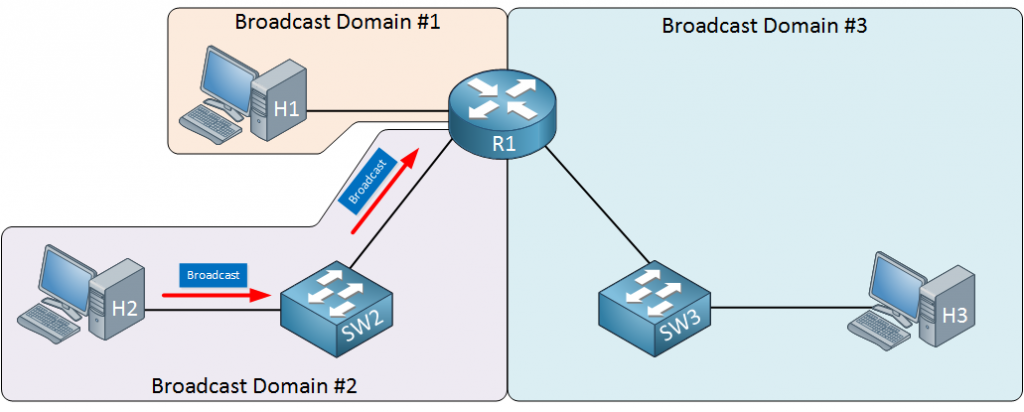
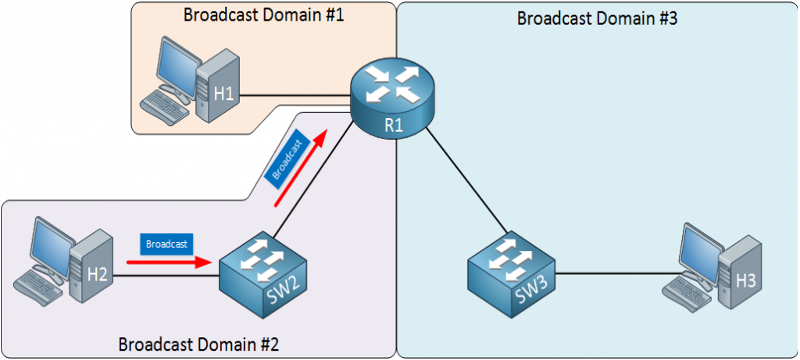
Redimensionamento das figuras, inserção dos prints das telas, inserção da prática sobre VLANs

diff --git a/tarefa.html b/tarefa.html
@@ -9,9 +9,6 @@
 <div id="header_wrapper">
   <div id="header">
     <div id="site_title">
-      <!--h1><a href="#"> <img src="images/logo-ic.png" alt="" /> <span>free css templates</span> </a></h1-->
-    </div>
-    <!--<p>Lorem ipsum dolor sit amet, consectetur adipiscing elit. Nulla aliquet, ipsum bibendum pretium volutpat, diam magna facilisis ante.</p>-->
   </div>
   <!-- end of header -->
 </div>
@@ -36,23 +33,42 @@
 	      <ul>
 		<li><a href="https://www.wireshark.org/#download">Wireshark</a> - ferramenta de análise de protocolos de rede.</li>
           	<li><a href="https://iperf.fr/iperf-download.php">Iperf</a> - ferramenta para geração de tráfego e medição de performance da rede.</li>
-	      </ul>
-	      <div class="cleaner_h20"></div>
-	     <div class="cleaner"></div>
+          </ul>
 	    </div>
 	   <div class="content_box_bottom"></div>
-	   
+
+    <!--Topico 1 -->
+    <div class="content_box">
+      <h2>Topologia da rede</h2>
+	<p> Construa a topologia da rede, conectando os hosts de acordo com a figura abaixo.
+	 <div class="cleaner_h20"></div>
+      <div class="image_fl"> <img src="images/collision-domain.png" alt="" /> </div>
+      <div class="cleaner"></div>
+    </div>
+    <div class="content_box_bottom"></div>
     <!--Topico 2-->
     <div class="content_box">
       <h2>Atividades</h2>
       <h3> Domínio de Colisão </h3>
+      <div class="cleaner_h20"></div>
       <p> 1. Análise de quadros Ethernet
       <div class="cleaner_h20"></div>
       <p>Passo 1: Inicie o Wireshark em um dos computadores para capturar os pacotes transmitidos na rede através da interface Ethernet. </p>
-      <p>Passo 2: Em um segundo computador também conectado ao hub descubra o endereço IP configurado na interface Ethernet através do comando ifconfig (Linux) ou ipconfig (Windows).
-	  <p> Passo 3: Em um terceiro computador execute o comando ping com o endereço IP obtido no passo anterior.
+      <div class="cleaner_h20"></div>
+      <p>Passo 2: Em um segundo computador também conectado ao hub descubra o endereço IP configurado na interface Ethernet através do comando ifconfig (Linux) ou ipconfig (Windows):</p> 
+          No Linux:<div class="cleaner"></div>
+          <div class="image_fl"> <img src="images/ifconfig.png" alt="" /> </div>
+          <div class="cleaner"></div>
+          No Windows:<div class="cleaner"></div>
+          <div class="image_fl"> <img src="images/ipconfig.png" alt="" /> </div>
+          <div class="cleaner"></div> <div class="cleaner_h20"></div>
+        <p> Passo 3: Em um terceiro computador execute o comando ping com o endereço IP obtido no passo anterior.
+          
+            <p class="list_02" align="center">ping "IP_destino"</p>
+            <div class="cleaner_h20"></div>
 	  <p> Passo 4: Através do Wireshark que está sendo executado no primeiro passo, filtre os pacotes ICMP com o endereço IP de destino obtido no segundo passo.
 	  <div class="image_fl"> <img src="images/wireshark-hub.png" alt="" /> </div>
+    <div class="cleaner_h20"></div>
 	<p class="list_01"> Responda:
 	<ul class="list_01">
 		<li> O endereço IP da máquina na qual o Wireshark é executado é o mesmo endereço IP utilizado na filtragem? </li>	
@@ -62,34 +78,100 @@
 	<div class="cleaner_h20"></div>
       <p> 2. Análise de Desempenho
       <div class="cleaner_h20"></div>
-      <p> Passo 1: Escolham duas máquinas para gerar tráfego e três máquinas para receberem tráfego.
-      <p> Passo 2: Nas máquinas escolhidas para receberem tráfego, execute o software para geração de tráfego Iperf em modo servidor com o seguinte comando iperf -s -V -u -f M. Esse comando nos indica que o software vai executar em modo servidor (-s), que vai receber tráfego UDP (-u) e que a vazão vai ser indicada em MB/s (-f M).
+      <p> Passo 1: Escolha duas máquinas para gerar tráfego e três máquinas para receberem tráfego.
+      <div class="cleaner_h20"></div>
+      <p> Passo 2: Nas máquinas escolhidas para receberem tráfego, abra um terminal e execute o Iperf para geração de tráfego Iperf em modo servidor com o seguinte comando:
+        <p class="list_02" align="center">iperf -s -V -f M</p><div class="cleaner"></div>
+      <p> Esse comando nos indica que o software vai executar em modo servidor (-s), que vai receber tráfego UDP (-u) e que a vazão vai ser indicada em MB/s (-f M). 
+          <div class="image_fl"> <img src="images/iperf1.png" alt="" /> </div>
+          <div class="cleaner_h20"></div>
       <p> Passo 3: Descubra o endereço IP das máquinas nas quais o Iperf é executado em modo servidor.
-      <p> Passo 4: Nas máquinas escolhidas para gerar o tráfego, execute o Iperf em modo cliente com o seguinte comando iperf -c xxx.xxx.xxx.xxx -u -b 80M -t 20. Esse comando nos indica para gerar tráfego UDP (-u), com uma taxa de transmissão de 80 Mb/s (ou 10MB/s) (-b 80M), por um período de 20 segundos (-t 20) e para um dos três servidores (-c xxx.xxx.xxx.xxx). OBS: Dois ou mais clientes não podem escolher um mesmo servidor em comum. MOSTRAR FIGURA DO COMANDO EM LINUX E WINDOWS
+          <div class="cleaner_h20"></div>
+      <p> Passo 4: Nas máquinas escolhidas para gerar o tráfego, abra um terminal e execute o Iperf em modo cliente com o seguinte comando:
+        <p class="list_02" align="center"> iperf -c xxx.xxx.xxx.xxx -u -b 80M -t 20 </p>
+        <p>Esse comando nos indica para gerar tráfego UDP (-u), com uma taxa de transmissão de 80 Mb/s (ou 10MB/s) (-b 80M), por um período de 20 segundos (-t 20) e para um dos três servidores (-c xxx.xxx.xxx.xxx). OBS: Dois ou mais clientes não podem escolher um mesmo servidor em comum.  </p>
+         <div class="image_fl"> <img src="images/iperf2.png" alt="" /> </div>
+    <div class="cleaner_h20"></div>
       <p class="list_01"> Responda:
 	<ul class="list_01">
 		<li> Qual foi a vazão registrada pelos servidores ao final do experimento? </li>	
 		<li> Compare a vazão registrada com a taxa de transmissão utilizada pelos cliente. A vazão chegou próxima da taxa de transmissão? Por qual razão? </li>
 	</ul>
+      <div class="cleaner_h20"></div>
+      <div class="cleaner_h20"></div>
 	  <h3> Domínio de Broadcast </h3>
+        <div class="cleaner_h20"></div>
 	  <p> 1. Análise de quadros Ethernet
       <div class="cleaner_h20"></div>
       <p>Passo 1: Inicie o Wireshark em um dos computadores para capturar os pacotes transmitidos na rede através da interface Ethernet. </p>
-      <p>Passo 2: Em um segundo computador também conectado ao switch descubra o endereço IP configurado na interface Ethernet através do comando ifconfig (Linux) ou ipconfig (Windows): MOSTRAR FIGURAS COM OS ENDEREÇOS IP DE CADA SO
-	  <p> Passo 3: Em um terceiro computador execute o comando arp -n, verifique se há uma entrada com o endereço IP obtido no passo anterior e apague essa entrada com o comando sudo arp -d xxx.xxx.xxx.xxx.
-  	  <p> Passo 4: Em um terceiro computador execute o comando ping com o endereço IP obtido no segundo passo.
+       <div class="cleaner_h20"></div>
+      <p>Passo 2: Em um segundo computador também conectado ao switch descubra o endereço IP configurado na interface Ethernet através do comando ifconfig (Linux) ou ipconfig (Windows): 
+          <div class="cleaner"></div>
+        No Linux:<div class="cleaner"></div>
+          <div class="image_fl"> <img src="images/ifconfig.png" alt="" /> </div>
+          <div class="cleaner"></div>
+          No Windows:<div class="cleaner"></div>
+          <div class="image_fl"> <img src="images/ipconfig.png" alt="" /> </div>
+          <div class="cleaner"></div> <div class="cleaner_h20"></div>
+	  <p> Passo 3: Em um terceiro computador execute o comando:
+          <p class="list_02" align="center"> No Linux: arp -n </p>
+          <p class="list_02" align="center"> No Windows: arp -a </p>
+        <p> Verifique se há uma entrada com o endereço IP obtido no passo anterior e apague essa entrada com o comando:
+           <p class="list_02" align="center"> arp -d xxx.xxx.xxx.xxx. </p>
+        <p>Obs: É necessário ser superusuário para executar este comando</p>
+  	  <div class="cleaner_h20"></div>
+      <p> Passo 4: Em um terceiro computador execute o comando ping com o endereço IP obtido no segundo passo.
+      <div class="cleaner_h20"></div>
 	  <p> Passo 5: Através do Wireshark que está sendo executado na máquina do primeiro passo, filtre os pacotes ICMP com o endereço IP de destino obtido no segundo passo.
 	  <div class="image_fl"> <img src="images/wireshark-hub.png" alt="" /> </div>
+    <div class="cleaner_h20"></div>
 	  <p> Passo 6: Através do Wireshark que está sendo executado na máquina do primeiro passo, filtre os pacotes ARP com o endereço IP de destino obtido no segundo passo.
   	  <div class="image_fl"> <img src="images/wireshark-switch.png" alt="" /> </div>
+        <div class="cleaner_h20"></div>
 	<p class="list_01"> Responda:
 	<ul class="list_01">
 		<li> Os pacotes ICMP do ping transmitido pela máquina no passo 4 foram exibidos pelo Wireshark? E os pacotes ARP? Explique a razão do resultado deste experimento. DICA: Verifique o endereço MAC de destino dos quadros Ethernet. </li>
      <div class="cleaner"></div>
     </div>
-   <div class="content_box_bottom"></div>
-          <div class="cleaner"></div>
     </div>
+  <div class="cleaner_h20"></div>
+    <h3> VLAN</h3>
+    <div class="cleaner_h20"></div>
+  <p> 1. Configuração de VLANs
+      <div class="cleaner_h20"></div>
+      <p> Para a criação de VLANs será utilizada a interface gráfica fornecida pelo fabricante do switch. Nesta prática, o switch utilizado foi o TP-Link TL-SG108E V2.0 (<a href="http://www.tp-link.com.br/download/TL-SG108E_V2.html">Download</a>)</p>
+      <p> Passo 1: Ao iniciar o software do fabricante, irá aparecer uma lista de switches. Selecione o switch com o endereço MAC impresso no equipamento. E clique no ícone de configuração, conforme indicado na figura abaixo.</p>
+      <div class="image_fl"> <img src="images/switch3.png" alt="" /> </div>
+       <div class="cleaner_h20"></div>
+      <p> Passo 2: Na tela de configuração, sete o campo DHCP Setting como "Enable". Preecha os campos User Name e Password com "admin", e clique em Apply. </p> 
+      <div class="image_fl"> <img src="images/switch4.png" alt="" /> </div>
+       <div class="cleaner_h20"></div>
+      <p> Passo 3: Selecione o ícone de login correspondente ao switch que será configurado para criação das VLANs, e faça o login com usuário "admin" e senha "admin" </p>
+      <div class="image_fl"> <img src="images/switch1.png" alt="" /> </div>
+       <div class="cleaner_h20"></div>
+      <p> Passo 4: Para a criação das VLANs selecione a aba VLAN na tela que irá aparecer</p>
+      <div class="image_fl"> <img src="images/switch5.png" alt="" /> </div>
+       <div class="cleaner_h20"></div>
+      <p> Passo 5: Nesta prática, cada VLAN será caracterizada por um conjunto de portas do switch. Então, no menu lateral esquerdo, selecione a opção Port Based VLAN.</p> 
+      <div class="image_fl"> <img src="images/switch6.png" alt="" /> </div>
+       <div class="cleaner_h20"></div>
+      <p> Passo 6: Crie 2 VLANs: VLAN 2 (composta por apenas um host), e VLAN 3 (composta pelos hosts restantes) </p>
+      <p> Para criar a VLAN, basta clicar nos números das portas que irão participar da VLAN, e depois clicar em Apply. 
+      <p>    Por exemplo: VLAN 2, contendo apenas a porta 4.</p> 
+      <div class="image_fl"> <img src="images/switch7.png" alt="" /> </div>
+      <p> VLAN 3, contendo as portas 5 e 8. </p>
+      <div class="image_fl"> <img src="images/switch8.png" alt="" /> </div>
+     <div class="cleaner_h20"></div>
+      <p> Passo 7: Na máquina pertencente à VLAN 2, execute o comando ping, com o endereço ip de uma das máquinas pertencentes à VLAN 3.</p>
+       <p class="list_02" align="center"> ping xxx.xxx.xxx.xxx </p>
+       <div class="cleaner_h20"></div>
+      <p> Passo 8: Em uma das máquinas pertencentes à VLAN 3, execute o comando ping, com o endereço ip da outra máquinas que também está na VLAN 3.</p>
+      <p class="list_02" align="center"> ping xxx.xxx.xxx.xxx </p>
+      <p class="list_01"> Responda:
+	   <ul class="list_01">
+		  <li> Dentre os pacotes ICMP do ping transmitidos pela máquina no passo 7, algum foi recebido pelo destino? E no passo 8? </li>
+          <li> O que podemos observar com este experimento? </li>
+       <div class="cleaner"></div>      
   </div>
   <!-- end of content -->
   <div class="cleaner"></div>

diff --git a/index.html b/index.html
@@ -9,9 +9,7 @@
 <div id="header_wrapper">
   <div id="header">
     <div id="site_title">
-      <!--h1><a href="#"> <img src="images/logo-ic.png" alt="" /> <span>free css templates</span> </a></h1-->
     </div>
-    <!--<p>Lorem ipsum dolor sit amet, consectetur adipiscing elit. Nulla aliquet, ipsum bibendum pretium volutpat, diam magna facilisis ante.</p>-->
   </div>
   <!-- end of header -->
 </div>
@@ -27,32 +25,6 @@
   <!-- end of menu -->
 </div>
 <div id="content_wrapper">
-  <!--div id="sidebar">
-    <div class="sidebar_box">
-      <h2>Announcements</h2>
-      <div class="news_box"> <a href="#">Fusce sit amet nunc lectus, at pretium augue. Pellentesque tortor felis.</a>
-        <p class="post_info">Posted by <a href="#">Admin</a> on <span>April 30, 2048</span></p>
-      </div>
-      <div class="news_box"> <a href="#">Integer imperdiet, justo ut venenatis vehicula, magna mi placerat felis.</a>
-        <p class="post_info">Posted by <a href="#">Admin</a> on <span>April 22, 2048</span></p>
-      </div>
-      <div class="news_box"> <a href="#">Sed justo dolor, convallis at, vestibulum vitae, elementum eu, pede.</a>
-        <p class="post_info">Posted by <a href="#">Admin</a> on <span>April 14, 2048</span></p>
-      </div>
-    </div>
-    <div class="sidebar_box_bottom"></div>
-    <div class="sidebar_box">
-      <h2>Newsletter</h2>
-      <form action="#" method="get">
-        <label>Please enter your email address to subscribe our newsletter.</label>
-        <input type="text" value="" name="username" size="10" id="input_field" />
-        <input type="submit" name="login" value="Subscribe" alt="login" id="submit_btn" />
-      </form>
-      <div class="cleaner"></div>
-    </div>
-    <div class="sidebar_box_bottom"></div>
-  </div>
-   end of sidebar -->
   <div id="content">
     <div class="content_box">
       <h2>Apresentação</h2>
@@ -137,8 +109,14 @@
       <div class="content_box">
       <h2>Rede Local Virtual</h2>
       <div class="cleaner_h20"></div>
-      <p> Uma Rede Local Virtual (Virtual Local Network - VLAN) é uma topologia de rede organizada de maneira lógica e configurada sobre a topologia física. A VLAN é uma tecnologia desenvolvida para switches para segmentar a rede física e controlar a difusão de quadros broadcast. Ao criar uma VLAN em uma LAN física divide-se a LAN em múltiplas LANs lógicas, cada um com o seu domínio de broadcast próprio. As estações pertencentes a mesma VLAN conseguem comunicar entre si, entretanto estações de VLANs distintas não conseguem falar uma com a outra. Para que estações pertencentes a VLANs diferente possam se comunicar, deve existir um elemento que realize a conexão entre domínios broadcasts diferentes, como um roteador.
-	   <div class="image_fl"> <img src="images/vlan.png" alt="" /> </div>
+      <ul>
+        <li>Uma VLAN (Virtual Local Area Network - Rede Local Virtual) é uma rede local que reúne um conjunto de máquinas de maneira lógica</li>
+        <li>Define um domínio broadcast para pacotes do nível de rede </li>
+        <li>Definição de LANs separadas através da especificação de um subconjunto de portas em um switch ou portas em vários switches </li>
+        <li>O switch funciona como se fossem switches separados </li>
+        <li>Para interligar diferentes VLANs é necessário um elemento a mais, o roteador. </li>
+        <li>O roteador também pode estar implementado no próprio switch (não ocupa uma porta em cada VLAN que interliga)</li>
+      </ul>
        <div class="cleaner_h20"></div>
        <div class="cleaner"></div>
     </div>
@@ -148,7 +126,7 @@
       <h2>Protocolo ARP</h2>
       <div class="cleaner_h20"></div>
      <p>O protocolo ARP (Address Resolution Protocol) é responsável pela conversão de um endereço IP em um endereço MAC. </p>
-      <p>Assim, para fazer a correspondência entre os endereços físicos e os endereços lógicos, o protocolo ARP interroga as máquinas da rede para conhecer o seu 			 endereço físico e depois cria uma tabela de correspondência entre os endereços IP e os endereços MAC numa memória temporária. O processo de interrogar as 			 máquinas é feito através de dois pacotes, o ARP request e o ARP reply. O pacote ARP request carrega uma pergunta do tipo who is (quem é) o endereço IP 		 X.X.X.X, informe (tell) para o endereço Y.Y.Y.Y. Essa pergunta é encapsulada em um quadro com endereço de broadcast, portanto, todas as estações 			  pertencentes ao mesmo domínio de broadcast receberão uma cópia. A estação cuja interface possui o endereço IP X.X.X.X responderá o seu endereço MAC para a estação de endereço IP Y.Y.Y.Y em um pacote ARP reply.
+      <p>Assim, para fazer a correspondência entre os endereços físicos e os endereços lógicos, o protocolo ARP interroga as máquinas da rede para conhecer o seu endereço físico e depois cria uma tabela de correspondência entre os endereços lógicos e os endereços físicos numa memória secreta. 
        <div class="cleaner_h20"></div>
        <div class="cleaner"></div>
     </div>

diff --git a/style.css b/style.css
@@ -314,6 +314,13 @@ h3 {
 	margin: 0 0 0 20px;
 }
 
+.list_02 {
+	margin: 0 0 0 20px;
+	padding: 0;
+	list-style: decimal-leading-zero;
+	color: #000080;
+}
+
 /* end of content */
 
 /* footer */
